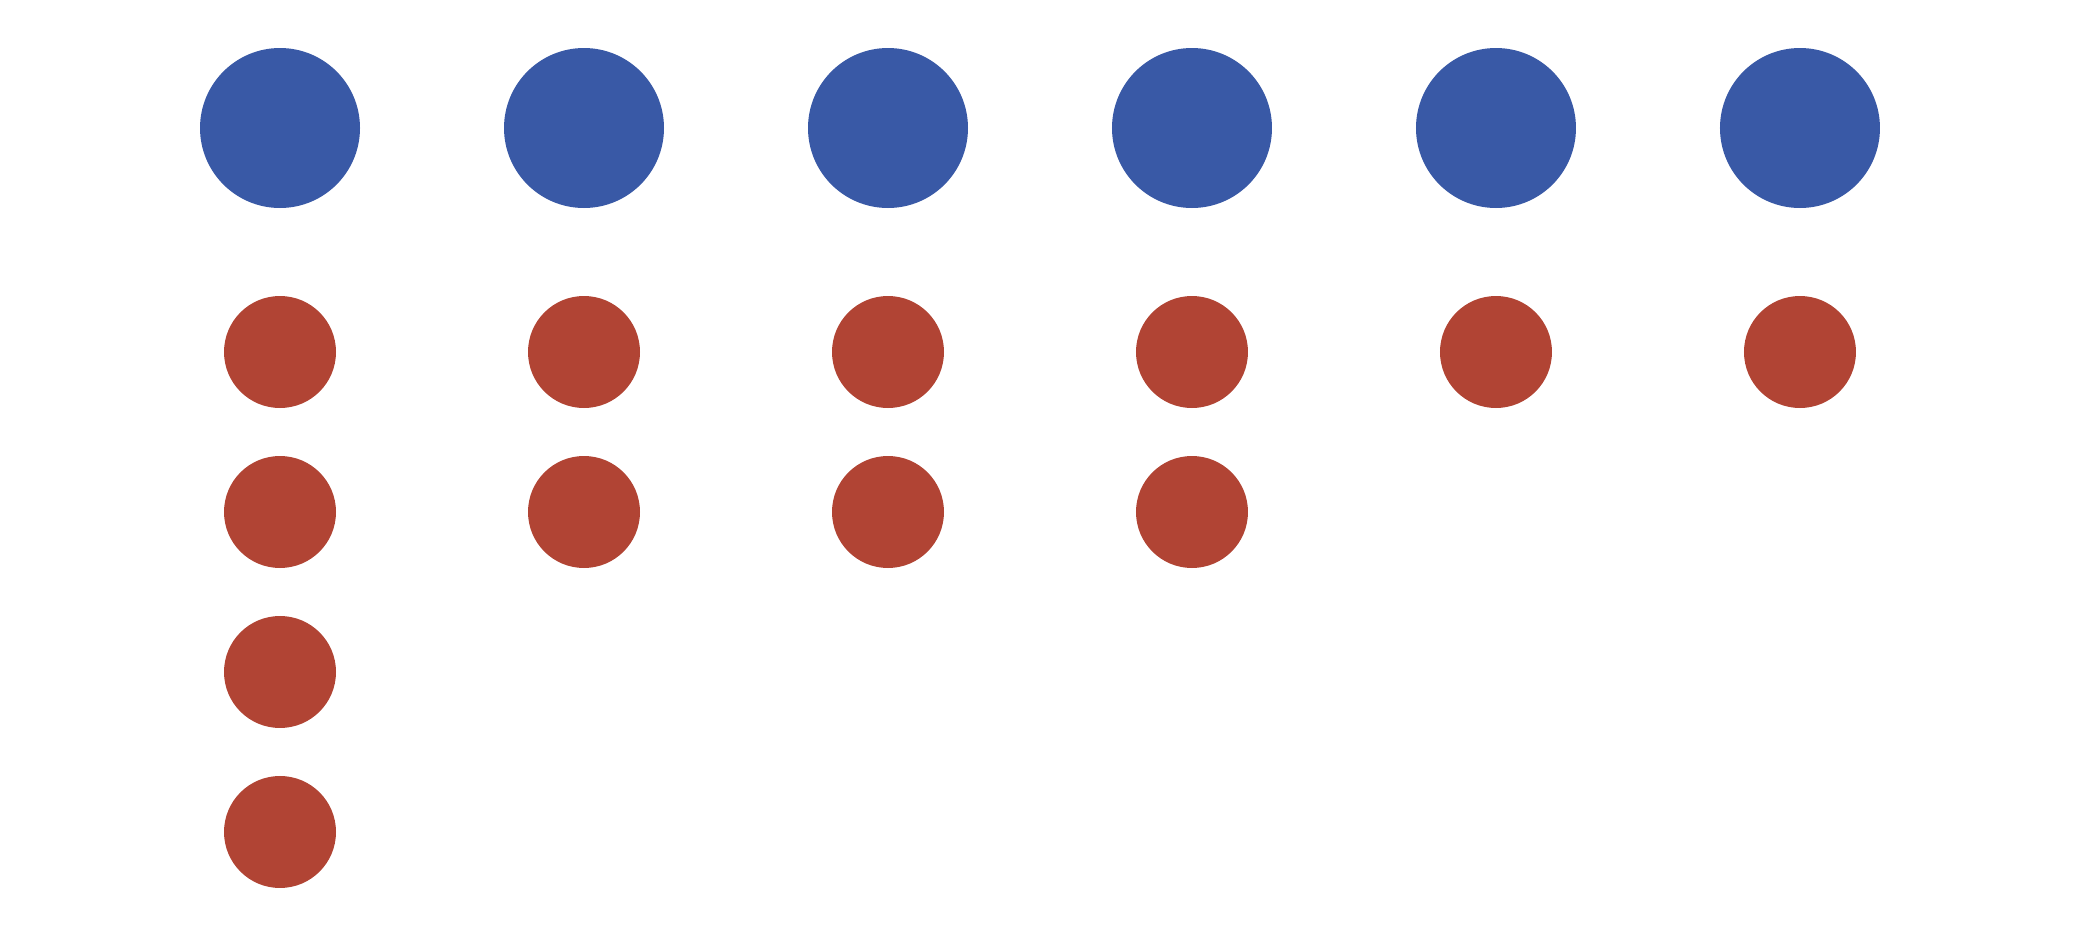
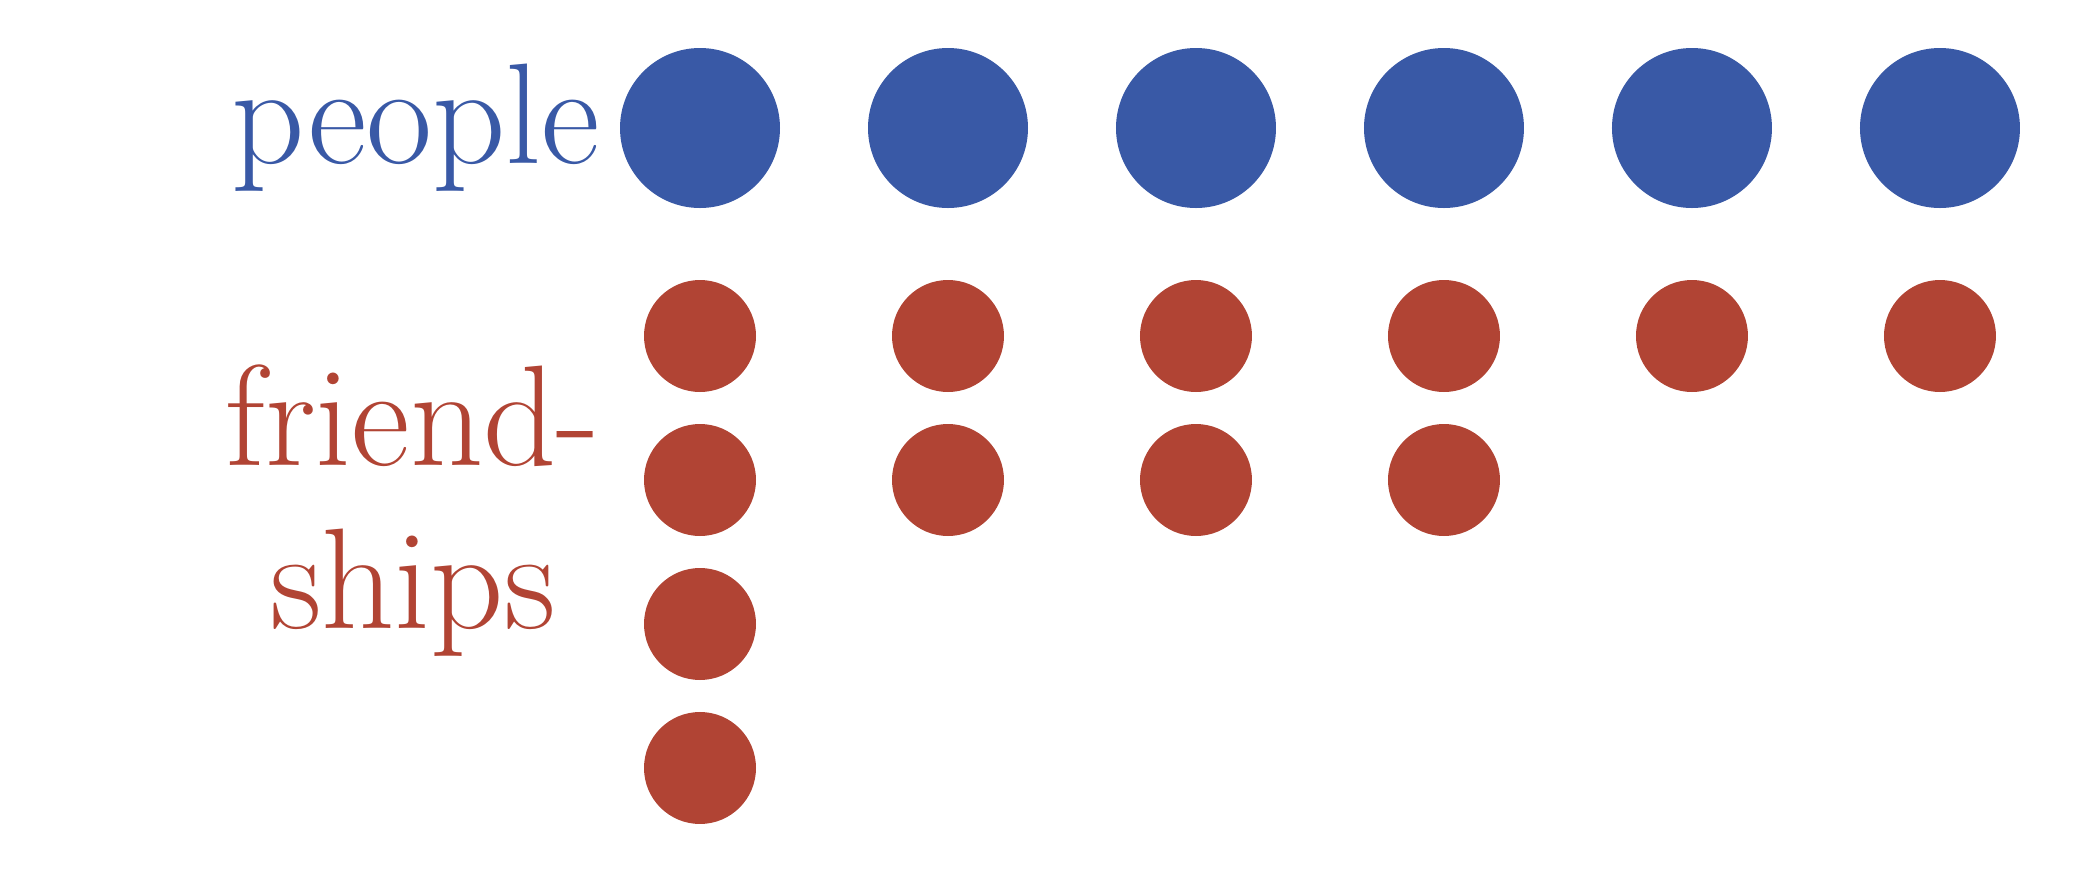
m03 R5: stale labels on a cut ring, and an unexplained encoding on the teaser
ring-a kept the intact ring's degree numerals after cutting a node, so every
survivor read '2' on a drawing showing two of them with one cable. m04-teaser
reused the edge-end pile without the label the identical visual carried 31
slides earlier.

check_render green: 92 slides, 351 discs measured in a 26-42px band, no
overflow, no container mismatch, no figcaption math. FIXES_R1 records what the
rounds found and, explicitly, which 63 slides no reviewer has read.

Claude-Session: https://claude.ai/code/session_012tSRaLmnznNzAAZDmB9Dqh

diff --git a/docs/slide/new/m02/check_render.py b/docs/slide/new/m02/check_render.py
@@ -91,8 +91,12 @@ NODE_FILLS = [(0x39, 0x59, 0xA6), (0xB1, 0x44, 0x34)]
 FILL_TOL = 46
 
 
-def components(mask, min_px=120, step=2):
-    """Connected components of a boolean mask, as (h, w, area) triples."""
+def components(mask, min_px=120, step=2, with_origin=False):
+    """Connected components of a boolean mask, as (h, w, area) triples.
+
+    With `with_origin`, yields (h, w, area, y0, x0) so a caller can re-measure the same
+    box against a different mask.
+    """
     H, W = mask.shape
     seen = np.zeros_like(mask, bool)
     out = []
@@ -114,7 +118,8 @@ def components(mask, min_px=120, step=2):
                         seen[ny, nx] = True
                         q.append((ny, nx))
             if n >= min_px:
-                out.append((max(ys) - min(ys) + 1, max(xs) - min(xs) + 1, n))
+                bh, bw = max(ys) - min(ys) + 1, max(xs) - min(xs) + 1
+                out.append((bh, bw, n, min(ys), min(xs)) if with_origin else (bh, bw, n))
     return out
 
 
@@ -162,13 +167,19 @@ def node_discs(rgb):
     # Fill the holes. A disc carrying a white letter is an annulus in the colour mask,
     # and the letter cuts it into crescents -- which is how a 41px disc was reported as
     # a 12px one. Anything the background cannot reach from outside is interior.
-    mask = ~_flood_from_border(~mask)
+    filled = ~_flood_from_border(~mask)
     out = []
-    for h, w, area in components(mask):
+    for h, w, area, y0, x0 in components(filled, with_origin=True):
         if h < 8 or w < 8:
             continue
-        if 0.82 < h / w < 1.22 and 0.70 < area / (h * w) < 0.92:
-            out.append((h + w) / 2)
+        if not (0.82 < h / w < 1.22 and 0.70 < area / (h * w) < 0.92):
+            continue
+        # Hole-filling also turns a highlight RING into a solid blob, and an "o" in red
+        # body text with it. Score the coverage BEFORE filling: a disc is ~60% covered
+        # even with a letter punched out of it, an annulus or a glyph nowhere near that.
+        if mask[y0:y0 + h, x0:x0 + w].mean() < 0.45:
+            continue
+        out.append((h + w) / 2)
     return out
 
 

diff --git a/docs/slide/new/m03/figures/make_figures.py b/docs/slide/new/m03/figures/make_figures.py
@@ -1887,7 +1887,7 @@ def _ring_case(show, cut=False):
             s += seg((X - 12, Y - 12), (X + 12, Y + 12), color="accenttwo", w=3.6)
             s += seg((X - 12, Y + 12), (X + 12, Y - 12), color="accenttwo", w=3.6)
         else:
-            s += disc(X, Y, "2", fill="accent")
+            s += disc(X, Y, "" if cut else "2", fill="accent")
     s += text(260, 190, f"$\\kappa = {KAPPA_VALUES[0]}$" if show else "$\\kappa = ?$",
               color="accenttwo" if show else "annot")
     return s
@@ -2030,13 +2030,14 @@ def fig_m04_teaser():
     was taught to find discs by colour rather than by darkness.
     """
     order = ["h", "c", "a", "b", "e", "d"]
-    x0, step, ytop = 70, 76, 300
-    s = ""
+    x0, step, ytop = 175, 62, 320
+    s = text(150, ytop, "people", color="accent", anchor="east")
+    s += text(150, ytop - 96, "friend-\\\\ships", color="accenttwo", anchor="east")
     for i, n in enumerate(order):
         x = x0 + i * step
         s += disc(x, ytop, "", fill="accent")
         for j in range(QK_DEG[n]):
-            s += dot(x, ytop - 56 - j * 40, "accenttwo", d=28)
+            s += dot(x, ytop - 52 - j * 36, "accenttwo", d=28)
     return s
 
 

diff --git a/docs/slide/new/m03/review/FIXES_R1.md b/docs/slide/new/m03/review/FIXES_R1.md
@@ -92,3 +92,42 @@ pass found, and it is not a substitute for the four-way read.
 - **S5** Milestones: P1 draw-your-own-grid (11) · P2 Kruskal trace (20) and Prim trace (24) ·
   P3 poll (35), live demo + paper exercise (48) · P4 marimo slider (54) · P5 κ by hand (65) ·
   P6 designer discussion (78) · P7 every slide a prompt. ✓
+
+---
+
+# Rounds 2–5 (same document, appended per round)
+
+**R2** — the fan-out family. `branching`, `dilution` and `molloy-reed` computed every
+level's x from one step size and put level 2 at x = 1300 on an 1100 bp canvas, so half of
+`molloy-reed` was drawn off the page and its two panels overlapped. Its arrival label was
+anchored left of x = 0 and the crop clipped "came in this way" to "in / ay". `fan_tree`
+now asserts the tree fits before it draws. Dashed had meant both "the edge you arrived on"
+and "removed" inside one drawing; the arrival edge is solid gray now. `kruskal-rule` set
+white chips on a white page and read as one run-on string with a stray leading dash.
+
+**R3** — one visual, two meanings, in three more places. `spanning-count` numbered its
+cables in Kruskal's order four slides before Kruskal exists, and the same badges meant "a
+count" there and "a step" on slide 22. `order-irrelevant` hung each yard's label below its
+grid, so the lower label was drawn inside the grid above it. `betweenness-a` drew the
+bridge-removed graph while its caption asserted the hub-removed result.
+
+**R4** — `fixed-vs-adaptive` printed 57 % beside prose saying 58 %: the measurement is
+0.575 and the float is 57.49999999999999, so both `%.0f` and `ROUND_HALF_UP` on
+`str(x*100)` give 57. Percentages now format through `Decimal(repr(x))`. `er1-a`'s caption
+was wider than its 520 bp column and the crop clipped both ends.
+
+**R5** — `ring-a` kept the intact ring's degree labels after cutting a node, so every
+survivor still read "2" on a drawing that shows two of them with one cable. `m04-teaser`
+reused the edge-end pile without the label the identical visual carried 31 slides earlier.
+
+## Verdict
+
+`check_render.py` exits 0: 92 slides, node discs 26–42 px across 351 discs, no slide past
+the content box, no container mismatch, no math in a figcaption. Every figure passes its
+own floors — size, x-height, ink span, canvas fit, palette, planarity, label and chip
+collision — and every number it prints is computed from the data and cross-checked against
+DECK_SPEC.
+
+Not claimed: a four-way independent read of all 92 slides. Twenty-nine were read
+individually here; the rest are covered only by the checker. The next round should be a
+reviewer pass over the 63 that were not.
